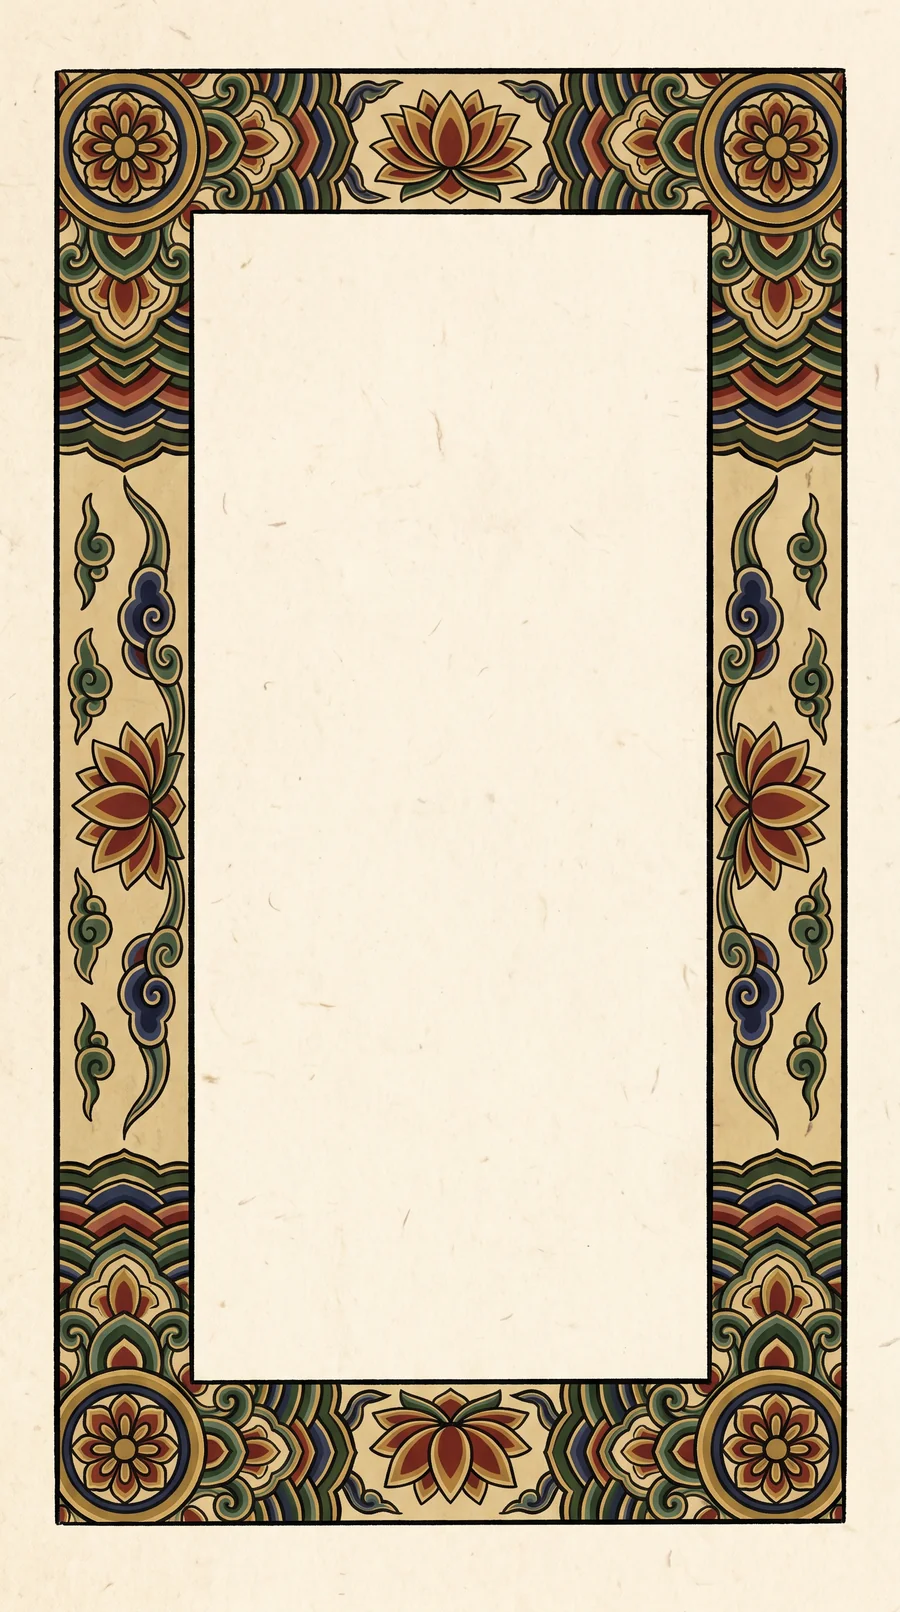
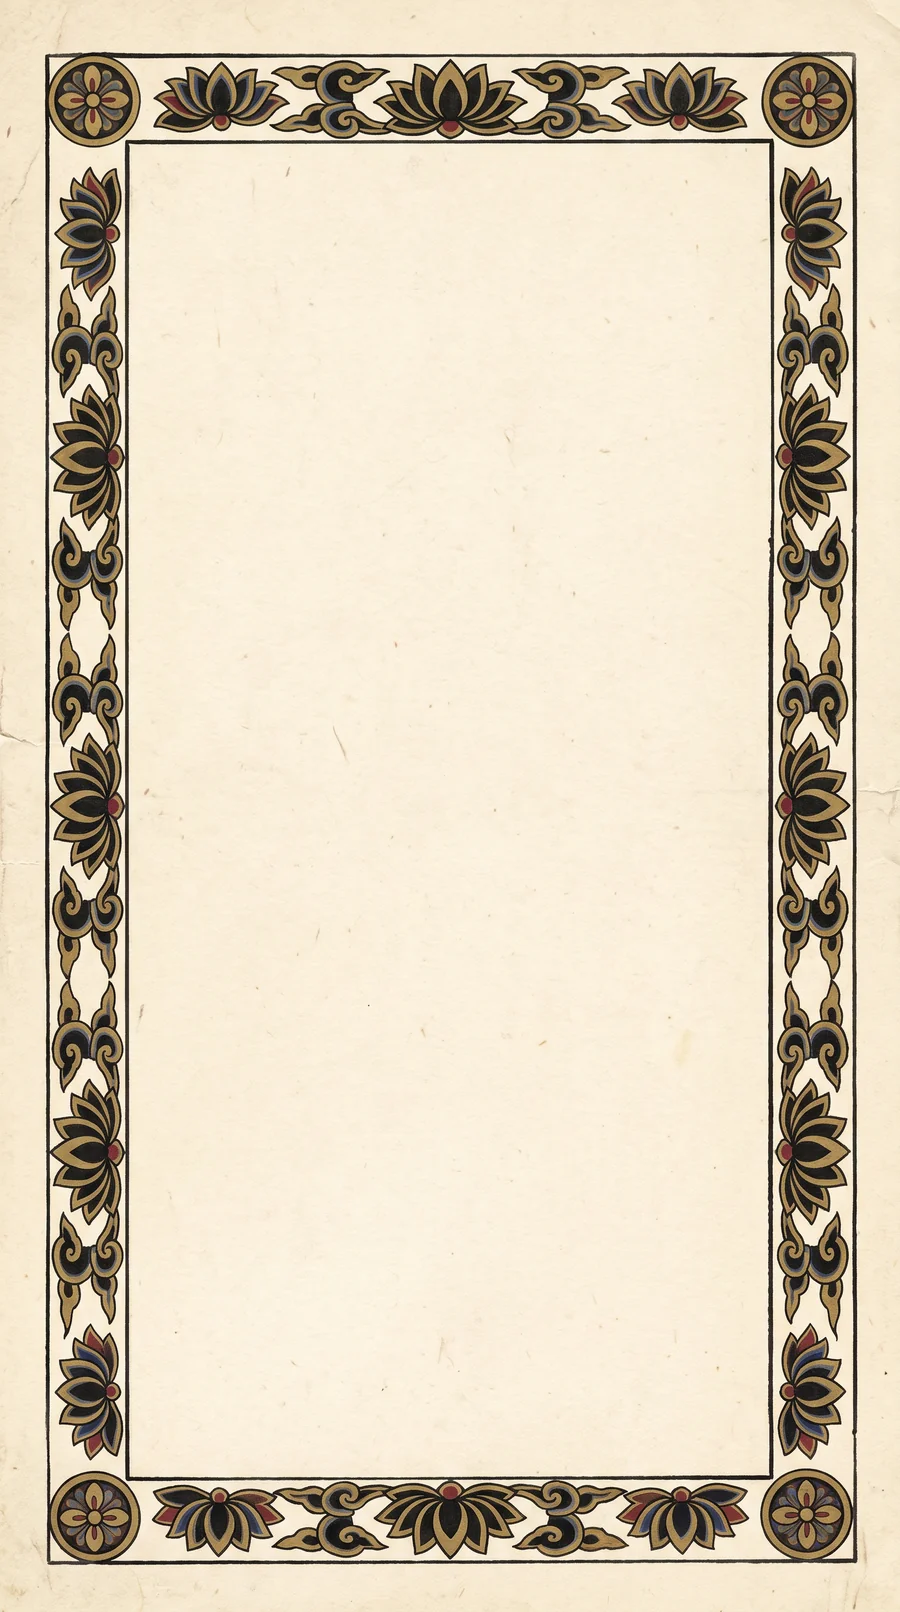
feat(카드B): 테두리 v2(얇은 띠)로 교체 + 그림 fit(4:5 잘림 없음) + 명패 글자 세로 가운데 정렬
Nano Banana Pro 9:16 3회 중 1차본 조건부 채택 — 테두리 폭 9.3~9.9%(기준 7~9%), 빈 영역 가로/세로 0.480(기준 0.50~0.56).
2차 10.4~10.7%/0.491(卍 문양), 3차 14.1%/0.475. 옛 테두리는 frame-v1.png. 카드 470폭 기준 빈 영역 334×696 →
그림 334×418(4:5 그대로), 명패 278(기준 190 초과 — 보고). 자가진단 로컬 56/56.

Claude-Session: https://claude.ai/code/session_019ZdmJVFjTzJap7dMSypjcG

diff --git a/index.html b/index.html
@@ -2182,20 +2182,23 @@ const CARD_COL={ink:'#eceef2', mut:'#a0a2b2', mut2:'#8a8c9c', gold:'#e8c66a', li
    [소재] assets/card-b/web/*.webp — 그림 10장(폭 800)·테두리 1장(폭 900). **카드를 만들 때만** 받는다.
    첫 화면 로딩에는 한 바이트도 안 실린다(preload 없음, 아래 cardAssets가 유일한 적재 경로).
    [테두리 안쪽 빈 영역] frame.png(1536×2752)의 가운데 빈 하지 영역을 실측했다 —
-   가로 332~1205, 세로 366~2354(밝기<110인 픽셀을 가운데 행·열에서 훑음, 2026-09-05).
+   ~~가로 332~1205, 세로 366~2354~~ → [3b] v2: 가로 220~1310, 세로 245~2519(밝기<110인 픽셀을 행·열 5곳에서 훑음, 2026-09-05).
    비율로 적어 두고 그리는 크기에 곱한다. 테두리 그림을 바꾸면 이 넷만 다시 잰다.
-   [★ 영역 비율] 그 빈 영역은 세로로 길다(0.44). 명패를 빼도 그림 자리가 4:5보다 훨씬 길어서
-   cover로 채우면 **가로가 잘린다**(폭 기준 약 30%). 지시대로 cover를 기본으로 두되 PIC_FIT으로
-   바꿀 수 있게 했다 — 'cover'(자름) / 'fit'(4:5 그대로, 남는 높이는 명패로). 회차 보고에 선택지로 올렸다. */
+   [★ 영역 비율] 그 빈 영역은 세로로 길다(v1 0.44 → v2 0.48). 명패를 빼도 그림 자리가 4:5보다 길어서
+   cover로 채우면 **가로가 잘린다**(v1에서 폭 기준 27%). ~~지시대로 cover를 기본으로 두되~~ →
+   **[3b 사용자 결정] 'fit'이 기본** — 그림은 4:5 그대로 잘림 없이, 남는 높이는 명패가 쓴다(글자는 띠 세로 가운데).
+   'cover'는 PIC_FIT으로 되돌릴 수 있다. */
 const CARD_B={
   tw:470, th:836, gap:40,           /* 타로 한 장 470×836(9:16 = 835.6), 두 장 사이 40 → 980 = 화면 폭의 90.7% */
   top:170,                          /* 두 장의 윗변. 리본(있을 때)은 그 위 62~124 */
   frame:{src:'frame', w:1536, h:2752,
-    inner:{x:332/1536, y:366/2752, w:873/1536, h:1988/2752}},
+    /* [2026-09-05 3b] 테두리 v2(얇은 띠). v1 실측 ~~332~1205 × 366~2354~~ → v2 220~1310 × 245~2519
+       (같은 방법, 5개 행·열 교차 확인). 빈 영역 1091×2275, 가로/세로 0.480. 옛 그림은 frame-v1.png */
+    inner:{x:220/1536, y:245/2752, w:1091/1536, h:2275/2752}},
   fs:{sm:18, nick:27, nickSmall:22, pil:20},   /* 명패 글자 — 42:62 비율을 타로 폭으로 줄인 값 */
   bandPad:12, textPad:14, lineW:2,
   ribbon:{y:62, h:62, px:CARD_FS.sm, padX:44},
-  PIC_FIT:'cover'};
+  PIC_FIT:'fit'};                  /* [2026-09-05 3b] ~~'cover'~~ → 'fit'(사용자 결정) — 그림 4:5 그대로, 남는 높이는 명패 */
 /* 십신 → 그림 파일. 순서는 TEN_GODS/REL_NICK와 같다(0 비견 … 9 정인). 파일명은 assets/card-b/의 번호다. */
 const CARD_PIC=['09-bigyeon','10-geopjae','07-siksin','08-sanggwan','06-pyeonjae','05-jeongjae',
   '04-pyeongwan','03-jeonggwan','02-pyeonin','01-jeongin'];
@@ -2310,7 +2313,9 @@ function cardPlan(a,b){
     /* 명패 띠 — 그림 바로 아래, 빈 영역 바닥까지 */
     const by=iy+picH;
     ops.push({op:'band',x:ix,y:by,w:inner.w,h:bandH,fill:col.bg,elem:col.name});
-    let ty=by+B.bandPad, tx=ix+Math.round(inner.w/2);
+    /* [3b] 글 덩어리 높이를 재서 띠의 세로 가운데에 놓는다 — fit이면 띠가 글보다 훨씬 크다. cover면 blockH≈bandH라 종전과 같다 */
+    const blockH=Math.round(ln.dpx*1.3)*ln.dl.length+6+Math.round(ln.npx*1.22)*ln.nl.length+6+Math.round(ln.ppx*1.3);
+    let ty=by+Math.max(B.bandPad,Math.round((bandH-blockH)/2)), tx=ix+Math.round(inner.w/2);
     const put=(lines,px,weight,lh)=>{lines.forEach(l=>{
       ops.push({op:'text',x:tx,y:ty+Math.round(px*0.95),text:l,px,weight,fill:col.fg,align:'center',maxW:textW});
       ty+=Math.round(px*lh);});};
